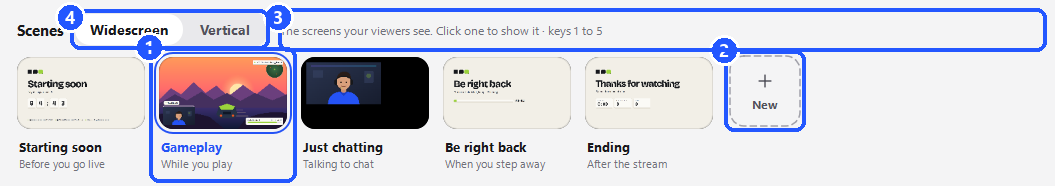
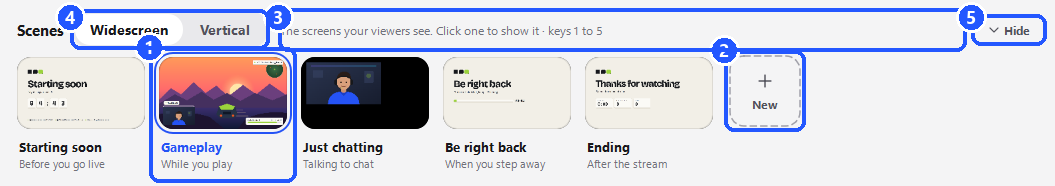
Update the Streezy page and screenshots

Changed region(s): [[0.91, 0.0269, 1.0, 0.2957]]

diff --git a/guide/streezy-guide.md b/guide/streezy-guide.md
@@ -251,6 +251,7 @@ A **scene** is one screen layout. Typical scenes are *Starting soon*, *Gameplay*
 2. **New** adds a scene. Type a name and press Enter.
 3. The line next to **Scenes** reminds you that the keys **1** to **9** switch scenes while Streezy is in front.
 4. **Widescreen / Vertical** chooses whose scenes you are looking at. It only appears when vertical is on (see [Part 4](#part-4-widescreen-and-vertical)).
+5. **Hide** folds the scene cards away so the preview gets the room; **Show** brings them back. Streezy remembers which you chose, and the number keys still switch scenes while they are hidden.
 
 **Right-click a scene card** (or press its **⋯**) for more:
 
@@ -272,14 +273,15 @@ A **source** is anything inside a scene: your game, webcam, a picture, an overla
 ![In this scene: sources and sound](images/sources-panel.png)
 
 1. **The switch** shows or hides a source. Items higher in the list are drawn on top.
-2. Hover over a row for the **padlock**, which locks it in place…
-3. …and **⋯**, the same menu you get by right-clicking it (see [section 7](#7-arrange-things-in-the-preview)).
-4. **Add a game, camera or overlay** puts something new into the scene.
-5. Under **Sound**, a **slider** for your mic, your PC sound and any apps you added…
-6. …with a **mute** button each. The line next to **Mic** says when viewers hear it, for example *with your talk key T*.
-7. **More** opens **Settings > Sound**. That is also where the sound of overlays and web pages is.
+2. **Edit** opens its settings. For a web page or overlay that is its address, size, frame rate and **Custom CSS**, where you can restyle it (fonts, colours, hiding parts of it) with your own CSS.
+3. Hover over a row for the **padlock**, which locks it in place…
+4. …and **⋯**, the same menu you get by right-clicking it (see [section 7](#7-arrange-things-in-the-preview)).
+5. **Add a game, camera or overlay** puts something new into the scene.
+6. Under **Sound**, a **slider** for your mic, your PC sound and any apps you added…
+7. …with a **mute** button each. The line next to **Mic** says when viewers hear it, for example *with your talk key T*.
+8. **More** opens **Settings > Sound**. That is also where the sound of overlays and web pages is.
 
-Double-click a source to open its settings.
+Double-clicking a source opens its settings too.
 
 ### Adding a source
 
@@ -350,7 +352,7 @@ Then:
 
 ![Right-click menu of a source](images/sources-menu.png)
 
-1. **Settings…**
+1. **Edit settings…** (for a web page: **Edit: address, size, custom CSS…**)
 2. **Filters (picture)…** (and **Audio filters…** for anything with sound).
 3. **Size and position** opens a list…
 4. …that starts with the four corners: **Top left corner**, **Top right corner**, **Bottom left corner** and **Bottom right corner** move it there with a small margin. Below them are **Fit to screen**, **Fill the screen**, **Stretch to screen**, **Centre** and **Reset size**.
